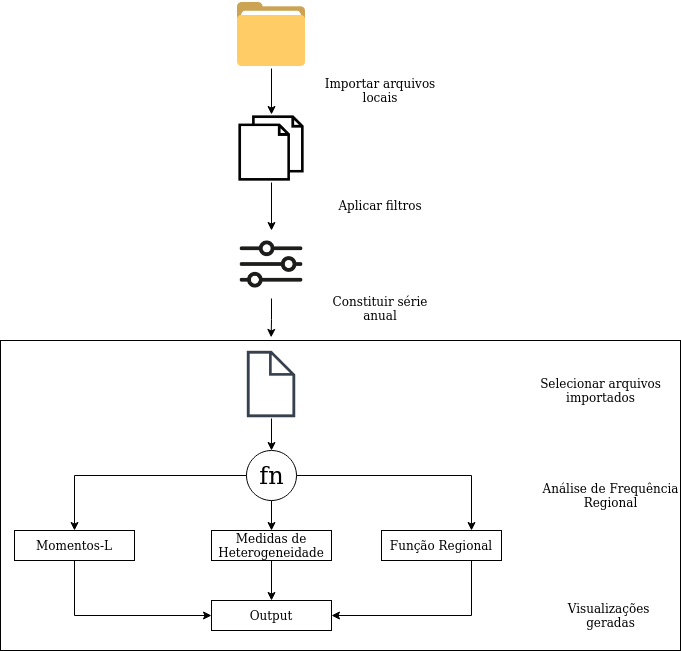
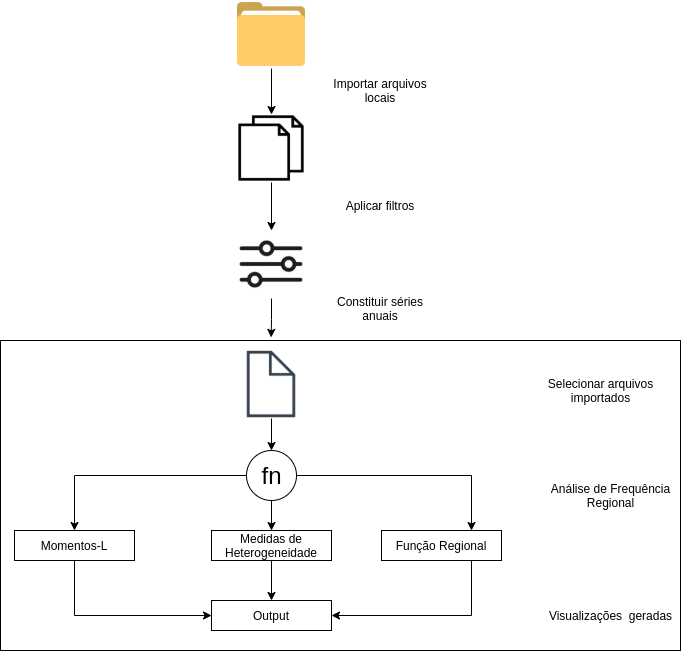
writing worker relateds and introduction

diff --git a/paperWSCAD2021/main.tex b/paperWSCAD2021/main.tex
@@ -29,6 +29,7 @@
 \usepackage[T1]{fontenc}
 \usepackage{xspace}
 \usepackage{url}
+\usepackage{enumerate}
 
 \usepackage{xargs}
 \usepackage[colorinlistoftodos,prependcaption,textsize=tiny]{todonotes}
@@ -70,21 +71,46 @@
 
 \section{Introdução}
 
-A decisão economica sobre diferentes frentes por vezes passa pela análise de uma grande massa de dados. R é uma ferramenta que oferece grande potencial para manipulação e visualização de massas de dados. Shiny é um pacote para R que permite que servidores disponibilizem recursos para visualizações R.
+Métricas de controle de qualidade e resultados ajudam a avaliar a confiança das previsões em estudos individuais.R é uma ferramenta livre que oferece grande potencial para manipulação e visualização de massas de dados. Shiny é um pacote para R que permite que servidores disponibilizem recursos para visualizações R. Existem outras, X e Y, que oferecem soluções semelhantes, porém, em um contexto proprietário.  Com arquitetura igualmente livre, a placa Raspberry Pi - um minicomputador que tem todo o seu hardware integrado em uma placa única, inicialmente desenvolvida em 2006 por Eben Upton e equipe (Werner 2015) - possui um custo baixo de aquisição, tamanho pequeno e baixo consumo energético. Ela é versátil, podendo ser usado para os mais diferentes tipos de aplicações, inclusive provendo serviços nativos a servidores (dados, web, serviços). Um dado interessante é que o Raspberry Pi 3 foi selecionado como o SBC (single board computer) mais popular, entre 81 placas Linux / Android, numa pesquisa abrangente conduzida pela Linux Foundation em 2016 (Brown, 2016.
 
-R é uma ferramenta livre, existem outras, X e Y, que oferecem soluções semelhantes, porém, em um contexto proprietário. Este trabalho tem por objetivo avaliar o poder de escalabilidade de servidores web R, utilizando shiny.
+Equipamentos servidores, independentemente das tarefas a que são submetidos, demandam consumo energético constante e ininterrupto e, por óbvio, é interessante buscar soluções que reduzam o uso de energia, provendo assim economia ou ganho financeiro.
 
-O caso de estudo encaminhado considera o serviço WebShyda. São consideradas duas plataformas de suporte: um servidor com arquitetura convencional e um dispositivo de baixa capacidade (small board). O objetivo deste estudo é identificar componentes do sw, atualmente construído de forma monolítica, em microserviços. 
+Nesse interim, as métricas de desempenho, que são valores brutos que provem a base para alguma forma de pesquisa ou estudo e podem ser compostos por valores de diversas categorias e formato, tem a finalidade de quantificar objetivamente as funções de coletas de dados de avaliação e desempenho. Objetivamente, este trabalho busca avaliar e mensurar a o poder de escalabilidade de servidores web R, utilizando Shiny.
 
-\section{Trabalhos Relacionados} \label{sec:TrabalhosRelacionados}
+O caso de estudo encaminhado considera o serviço WebSYHDA. Um serviço desenvolvido com a finalidade de processamento complexo de séries hidrológicas. São consideradas duas plataformas de suporte: um servidor com arquitetura convencional e um dispositivo de baixa capacidade (small board). O objetivo deste estudo é identificar componentes do software, atualmente construído de forma monolítica, na forma de microserviços.
+
+\section{Trabalhos Relacionados  - reescrito por Giovani rascunho para avaliação} \label{sec:TrabalhosRelacionados}
+
+O estudo da escalabilidade de servidores no atendimento aos usuários é constante na literatura [citações
+genéricas são bem vindas]. Nos últimos anos, esse estudo passou a incluir a análise das questões
+energéticas [outras refs]. Neste contexto, o uso de dispositivos de borda, os chamados \emph{small
+boards}, em substituição a servidores convencionais tem se apresentado como alternativa. No estudo de caso documento neste artigo, é considerada uma aplicação desenvolvida sob um servidor R.
+
+Inicialmente, com um propósito similar ao WebSYHDA, no que tange ao uso de R e a estrutura Shiny, cita-se o  trabalho de Ekiz et al (2020) que utiliza os referidos recursos para criar uma aplicação web denominada Cluster Identity PRedictor (CIPR), disponível em GitHub, que fornece uma interface gráfica de usuário para pontuar perfis de expressão gênica de clusters de células.
+Em outro contexto, a finalidade de criar um servidor de arquivos utilizando um Raspberry PI, para guardar os dados e poder compartilhar na rede, fora objeto de estudo de Bruschi (2016). Este concluiu que o dispositivo pode ser utilizado com o propósito em questão, com economia de custos sem, contudo, deixar de ser viável para esta aplicação, observando-se apenas algumas variações de desempenho dependendo do tipo de armazenamento.
+
+O Raspberry Pi também foi utilizado, conforme Azevedo (2019), para propor a viabilidade de sua utilização em hospedar um honeypot, mostrando que sua efetividade irá depender da eficiência do software utilizado e também do tamanho e complexidade da rede em que ficará esse dispositivo, para dar efetividade ao objetivo proposto. 
+
+Ainda\ups{Não entende esse "ainda".}, Rafael et al (2013), outrora já mostrara que o uso de um computador de baixo custo - o Raspberry-Pi, pode ser usado de forma segura como um servidor web,  propiciando economia de energia.
+
+[Oliveira and Ataides 2017] propôs avaliar a substituição do hardware convencional por um hardware de baixo consumo que respeite o Service-Level-Agreement (SLA) e reduza o consumo de energia dos data centers, assim tornando viável o uso de uma em uma nuvem computacional. A proposta incluiu a implementação de um Raspbarry PI B+ como um nodo computacional de baixo consumo energético. Para tal, adaptações na arquitetura e no hipervisor  se fizeram necessárias.
+
+Para a elaboração deste compendio, os testes e medições foram realizados executando o bechmark YCSB Yahoo! Cloud Serving Benchmark, um sistema de código aberto e conjunto de programas para avaliar as capacidades de recuperação e manutenção de programas de computador. É frequentemente usado para comparar o desempenho relativo dos sistemas de gerenciamento de banco de dados NoSQL e nuvens. Com a análise das vazões das operações realizadas, pode-se perceber um gargalo de processamento quando comparado ao nó de um dispositivo de baixo consumo. Contudo, a implementação do Raspberry PI B+ em uma nuvem, ainda sim é vantajosa.
+
+Em Kaup et al. (2014) é evidenciada segue a mesma preocupação com o alto consumo de energia proveniente de ambientes vindo das clouds. Ainda assim, até 2012, 10,82\% da população contribui com 0,03\% da energia consumida mundialmente, com o uso de 770 milhoes de gateways e routers domésticos. Levando em consideração que os maiores consumos ocorrem por parte de maquinas com um hardware mais poderoso, ainda sim não se pode ignorar o consumo vindo por parte de tais dispositivos, pois 43\% dos mesmos se mantem ligados diariamente, ociosos em boa parte do tempo, onde poderiam vir a desempenhar funções de pré-carregamento para usuário (ou seja, armazenamento em cache, pré-busca de conteúdo, execução de serviços locais). A Raspberry PI vem sendo utilizada para inúmeras aplicações no qual fomenta o uso de tais aplicações com a visão em baixo consumo energético. Kaup et al. (2014), apresenta o PowerPi um modelo de  potência concentrando-se no consumo de energia da Raspberry PI a fim de derivar novas possíveis estratégias de consumo de energia.
+
+
+
+\section{Trabalhos Relacionados - ideia anterior} \label{sec:TrabalhosRelacionados}
 %RASCUNHOOOOOOO
 %Referencias antigas quanto ao pq usar o raspberry (green computing)
-\cite{Joao} propôs avaliar a substituição do hardware convencional por um hardware de baixo consumo que respeite o Service-Level-Agreement (SLA) e reduza o consumo de energia dos \textit{data centers}, assim tornando viável o uso de uma \textit{Small Board} em uma nuvem computacional.
+
+O estudo da escalabilidade de servidores no atendimento aos usuários é constante na literatura [citações genéricas são bem vindas]. Nos últimos anos, esse estudo passou a incluir a análise das questões energéticas [outras refs]. Neste contexto, o uso de dispositivos de borda, os chamados \emph{small boards}, em substituição a servidores convencionais tem se apresentado como alternativa. \cite{Joao}, propôs avaliar a substituição do hardware convencional por um hardware de baixo consumo que respeite o Service-Level-Agreement (SLA) e reduza o consumo de energia dos \textit{data centers}, assim tornando viável o uso de uma \textit{Small Board} em uma nuvem computacional.
 
 Com isso, implementou a Raspbarry PI B+ como um nodo computacional de baixo consumo, realizando as adaptações necessárias para compatibilidade com a arquitetura ARM, precisando escolher um \textit{hypervision} adequado para tal. A nuvem era composta por 10 computadores de arquitetura x64, sendo nove deles nodos computacionais e um nodo de controle, em meio a essa composição a Raspberry vinha à acrescer como mais um nodo computacional.
 
 
-A medição foi realizada através da execução do bechmark YCSB (\textit{Yahoo! Cloud Serving Benchmark}) que é especificamente desenvolvido para avaliar nuvens. Os resultados foram obtidos através da vazão de operações onde acabou por demonstrar um gargalo de processamento quando comparado ao nó de um baixo consumo. Porém a implementação da Rapberry PI B+ em uma nuvem, ainda sim é vantajosa, onde as características batam com as desempenhada pelo \textit{benchmark}.
+A medição foi realizada com a execução do bechmark YCSB (\textit{Yahoo! Cloud Serving Benchmark}) que é especificamente desenvolvido para avaliar nuvens. Os resultados foram obtidos através da vazão de operações onde acabou por demonstrar um gargalo de processamento quando comparado ao nó de um baixo consumo. Porém a implementação da Rapberry PI B+ em uma nuvem, ainda sim é vantajosa, onde as características batam com as desempenhada pelo \textit{benchmark}.
 
 
 Em \cite{PiConsumo} segue a mesma preocupação com o alto consumo de energia vindo das \textit{clouds}, porém até 2012, 10,82\% da população mantem assinatura de banda larga até, mantendo 770 milhões de gateways domeśtico ao redor do mundo. Tendo um consumo de 10W cada, gerando um consumo unitário de 6,7TWh ao ano o que soma em 0,03\% na energia consumida mundialmente. Levando em consideração que os maiores consumo ocorrem por parte de maquinas com um \textit{hardware} mais poderoso, ainda sim não se pode ignorar o consumo vindo por parte de tais dispositivos, pois 43\% dos mesmo se mantem ligados diariamente e muitas vezes ociosos, durante esse período de ociosidade, poderia vir desempenhar funções de pré-carregamento para usuario (ou seja, armazenamento em cache, pré-busca de conteúdo, execução de serviços locais).
@@ -92,7 +118,7 @@ Em \cite{PiConsumo} segue a mesma preocupação com o alto consumo de energia vi
 
 A Raspberry PI vem sendo utilizada para inúmeras aplicações no qual fomenta o uso de tais aplicações com a visão em baixo consumo energético, com isso \cite{PiConsumo} apresenta o PowerPi um modelo de  potência concentrando-se no consumo de energia da Raspberry PI a fim de derivar novas possíveis estratégias de consumo de energia.
 
-\section{WebSyhda}\label{sec:websyhda}
+\section{WebSYHDA}\label{sec:websyhda}
 
 %RASCUNHOOOOOOOOO
 Engenharia e gestão de recursos hídricos mantém uma grande dependência de séries hidrológicas. No entanto, o processamento destas séries é complexo, geralmente dependente de métodos numéricos para resolução, e é suscetível a erros quando feito de forma manualmente. Esses aspectos frequentemente dificultam a elaboração de projetos que depende da análise e estudo de séries hidrológicas. Com isso O Grupo de Pesquisa em Hidrologia e Modelagem Hidrológica em Bacias Hidrográficas/CNPq da UFPEL, propôs, desenvolveu e mantem O \emph{System of Hydrological Data Acquisition and Analysis} ou SYHDA \cite{syhda}.
@@ -101,13 +127,14 @@ A plataforma recentemente passou por uma migração para o modelo Web, onde enco
 
 O WebSYHDA permite a importação de dados do Hidroweb/ANA\footnote{ANA: \url{https://dadosabertos.ana.gov.br}}, para dados de vazão, chuva e nível. Estes dados são reconhecidos pela plataforma de forma automática. Outras fontes de dados estão sendo implementadas na plataforma, como BDMEP/INMET\footnote{INMET: \url{https://portal.inmet.gov.br}} e dados oriundos de estações de monitoramento diversas com formatos definidos pelo usuário.
 
-A plataforma em sua versão atual, conta com diversas funcionalidades, bem como: estatísticas descritivas, representações gráficas, testes não paramétricos, consistência de dados de chuva, análise de frequência local e análise de frequência regional. Os resultados serão estruturados de forma dinâmica, assim permitindo o manuseio pelo usuário final, permitindo ainda a possibilidade de exportação e salvar o estado atual do projeto. 
+% adicionei uma parte (joão)
+A plataforma em sua versão atual, conta com diversas funcionalidades, bem como: constituição de séries históricas em diferentes intervalos de tempo, estatísticas descritivas, representações gráficas, testes não paramétricos, consistência de dados de chuva, análise de frequência local e análise de frequência regional. Os resultados serão estruturados de forma dinâmica, assim permitindo o manuseio pelo usuário final, permitindo ainda a possibilidade de exportação e salvar o estado atual do projeto. 
 
 \section{Metodologia} \label{sec:metodologia}
 
-Visto que a demanda de serviços \textit{web} ocupa a maior parte das aplicações na nuvem, maiores são os esforços para otimização das aplicações para um menor consumo de requisitos e rede. 
+Visto que a demanda de serviços \textit{web} ocupa a maior parte das aplicações na nuvem, maiores são os esforços para otimização das aplicações para um menor consumo de requisitos e rede, mantendo, no entanto, níveis de desempenho aceitáveis aos usuários. 
 
-Dito isso, para este trabalho fizemos uso de uma aplicação real, o WebSyhda como mecanismo de teste, que permitiu equiparar \emph{hardware} de arquitetura x64 com a \emph{smallboard} selecionado, Raspberry PI 3, dada a eficiência apresentada pelo dispositivo em trabalhos anteriores e a capacidade de atender cenários de demanda \emph{web} \cite{silva2019estudo}.
+Baseada na premissa supracitada, para este trabalho fizemos uso de uma aplicação real, o WebSYHDA como mecanismo de teste, que permitiu equiparar \emph{hardware} de arquitetura x64 com a \emph{smallboard} selecionado, Raspberry PI 3, dada a eficiência apresentada pelo dispositivo em trabalhos anteriores e a capacidade de atender cenários de demanda \emph{web} \cite{silva2019estudo}.
 
 Para simulação de carga fizemos uso da ferramenta \emph{Shinycannon}, a qual nos permite simular usuários simultaneos realizando ações no aplicativo. Assim atendendo nossas exigências em quantativar numero de usuários suportados e latência do aplicativo.
 
@@ -120,6 +147,10 @@ R é uma linguagem e ambiente com foco em computação estatística e gráficos.
 
 Com isso vale ressaltar que R é uma aplicação de thread único, o que significa que um aplicativo não pode atender a dois usuários diferentes precisamente ao mesmo tempo, Figura ~\ref{singleThreads}. Em muitas aplicações isso não é um problema, porque a maioria dos cálculos leva apenas dezenas ou centenas de milissegundos. Como resultado, um único processo R geralmente pode atender de 5 a 30 solicitações por segundo \cite{ShinyappsEscalabilidade}. 
 
+Entre tanto, para uma aplicação como o WebSYHDA e outras, onde a simultaneidade entre usuários podem ocorrer de forma frequente, acaba por resultar em respostas demoradas para os demais usuário, dado a dependência do tempo de processamento para o cálculo que estiver em execução. A fim de ganho em desempenho para compensar o número de usuários, o escalonamento de hardware pode ser feito, porem o emprego de \emph{hardware} para suporte pode ser empregada de forma pouco eficiente dado a configuração de balanceamento permitida. %De mesma maneira ocorre se houver o uso insuficiente, onde o custo por hardware ocioso deixa a desejar.
+
+%Resaltar casos onde nao atenda
+
 \begin{figure}[htbp]
   \centering 
   \includegraphics[scale=.4]{figures/single_threads.jpg}
@@ -129,15 +160,15 @@ Com isso vale ressaltar que R é uma aplicação de thread único, o que signifi
 
 \subsection{Shiny} \label{sec:Shiny}
 
-Para o desenvolvimento de aplicativos \emph{web} fazendo uso da linguagem R, a Rstudio mantém o pacote \emph{Shiny}\footnote{Shiny: \url{https://shiny.rstudio.com}}. Um pacote R que facilita a construção de aplicativos interativos. Permitindo hospedar aplicativos independentes em uma página da web ou incorporá-los em documentos R Markdown ou construir painéis. 
+Para o desenvolvimento de aplicativos \emph{web} fazendo uso da linguagem R, a Rstudio mantém o pacote \emph{Shiny}\footnote{Shiny: \url{https://shiny.rstudio.com}}. Este pacote R que facilita a construção de aplicativos interativos. Permitindo hospedar aplicativos independentes em uma página da web ou incorporá-los em documentos R Markdown ou construir painéis. 
 
-Assim, torna-se possivel apresentar gráficos dinamicos e iterativos por meio de pacotes como, ggvis\footnote{ggvis: \url{https://ggvis.rstudio.com/}}, ggiraph\footnote{ggiraph: \url{https://davidgohel.github.io/ggiraph/}}, plotly\footnote{plotly: \url{https://plotly.com/}} entre outros mantidos pela RStudio ou pela comunidade. Permitindo ainda, estender os aplicativos \emph{Shiny} com temas CSS (\emph{Cascading Style Sheets}), \emph{htmlwidgets} e ações JS (\emph{JavaScript}).
+Assim, torna-se possivel apresentar gráficos dinâmicos e interativos por meio de pacotes como, ggvis\footnote{ggvis: \url{https://ggvis.rstudio.com/}}, ggiraph\footnote{ggiraph: \url{https://davidgohel.github.io/ggiraph}}, plotly\footnote{plotly: \url{https://plotly.com/}} entre outros mantidos pela RStudio ou pela comunidade. Permitindo ainda, estender os aplicativos \emph{Shiny} com temas CSS (\emph{Cascading Style Sheets}), \emph{htmlwidgets} e ações JS (\emph{JavaScript}).
 
 \subsection{Shinycannon} \label{sec:Shinycannon}
 
-\textit{Shinycannon}\footnote{Shinycannon: \url{https://github.com/rstudio/shinycannon}} é uma ferramenta de linha de comando que possibilita testes de carga em aplicativos R. De forma a permitir aos desenvolvedores analisarem a escalabilidade de seu aplicativo simulando de um a n usuários simultaneos.
+\textit{Shinycannon}\footnote{Shinycannon: \url{https://github.com/rstudio/shinycannon}} é uma ferramenta de linha de comando que possibilita testes de carga em aplicativos R. Assim, permitindo aos desenvolvedores analisarem a escalabilidade de seu aplicativo simulando de um a n usuários simultaneos.
 
-A Ferramenta acompanha o pacote \textit{shinyloadtest}\footnote{Shinyloadtest: \url{https://rstudio.github.io/shinyloadtest/}}, mantido pela própria Rstudio. O pacote é responsavel por gerar uma gravação de uma sessão de usuário, essas sessões podem ser criadas pensando no uso tipico do aplicativo desenvolvido\cite{shinyloadtest}. A sessão é criada de forma manual, após a iniciação do pacote o tester executa a interação com o aplicativo de forma natual, assim como um usuário comum. Ao terminar seu uso basta fechar a aplicação para que o pacote encerre a gravação da sessão.
+A ferramenta acompanha o pacote \textit{shinyloadtest}\footnote{Shinyloadtest: \url{https://rstudio.github.io/shinyloadtest}}, mantido pela própria Rstudio. O pacote é responsavel por gerar uma gravação de uma sessão de usuário, essas sessões podem ser criadas pensando no uso tipico do aplicativo desenvolvido\cite{shinyloadtest}. A sessão é criada de forma manual, após a inicialização do pacote o tester executa a interação com o aplicativo de forma natual, assim como um usuário comum. Ao terminar seu uso basta fechar a aplicação para que o pacote encerre a gravação da sessão.
 
 Com isso, por sua vez, a \textit{Shinycannon} permite a criação de trabalhadores, que são os usuários simulados, podendo criar tantos quantos necessarios para execução dos testes. Assim para execução dos teste devemos definir o numero de trablhadores e o tempo total da sessão que será executada pelos mesmos. 
 
@@ -148,58 +179,53 @@ Com a popularização do uso de serviços providos pela computação em nuvem, o
 
 Assim, o dispositivo de teste escolhido foi a \emph{smallboard} Raspberry PI3, dada sua arquitetura ARM aberta, comunidade participativa em inumeros projetos alem de sua alta disponbilidade no mercado. As especificacoes do device podem ser observadas na Tabela ~\ref{tab:especificacao}.
 
-\begin{table}[!h]
-    \centering
-    \caption{Especifícação de \textit{hardware} do dispositivo, segundo o fabricante~\cite{fundation2015raspberry}.}
-    \label{tab:especificacao}
-    \begin{tabular}{c|c}
-    \hline
-    \textbf{Espesificações}                                           & \multicolumn{1}{l}{\textbf{Raspeberry PI 3}}                             \\ \hline
-    Processador                                                       & \begin{tabular}[c]{@{}c@{}}BCM2837 64Bit\\ Quad Core 1.2GHz\end{tabular} \\ \hline
-    Arquitetura                                                       & ARMv8                                                                    \\ \hline
-    RAM                                                               & 1GB SDRAM 400MHz                                                         \\ \hline
-    Armazenamento                                                     & Micro SD                                                                 \\ \hline
-    USB 2.0                                                           & 4 Portas USB                                                             \\ \hline
-    \begin{tabular}[c]{@{}c@{}}Máxima corrente/\\ Tensão\end{tabular} & \begin{tabular}[c]{@{}c@{}}2,4A/\\ 5V\end{tabular}                       \\ \hline
-    GPIO                                                              & 40 Pins                                                                  \\ \hline
-    \end{tabular}
-    \end{table}
+\begin{table}[h]
+\centering
+\caption{TESTE}
+\begin{tabular}{l|c|c}
+\hline
+\multicolumn{1}{c|}{\textbf{Especifícação}}            & \textbf{Server x64} & \textbf{Raspberry PI3}                                                   \\ \hline
+\textbf{Processador}                                   & XXX                 & \begin{tabular}[c]{@{}c@{}}BCM2837 64bit\\ Quad Core 1.2GHz\end{tabular} \\ \hline
+\textbf{Arquitetura}   & XXX & ARMv8             \\ \hline
+\textbf{RAM}           & XXX & 1 GB SDRAM 400MHz \\ \hline
+\textbf{Armazenamento} & XXX & Micro SD          \\ \hline
+\multicolumn{1}{c|}{\textbf{Máxima corrente / Tensão}} & XXX                 & 2.4A/5V                                                                  \\ \hline
+\end{tabular}
+\label{tab:especificacao}
+\end{table}
     
 Para comparativo de desempenho, utilizou-se um dispositivo de arquitetura x64.
-O \textit{server} selecionado para tal comparativo foi o HP ----------------- \cite{}, suas especificações se encontrão presente na Tabela \ref{tab:especificacaoserver}, informações obtidas através do comando \textit{dmidecode}, o qual apresenta todas informações disponíveis sobre o dispositivo, possibilitando uma pesquisa mais especifica dentro dele atribuindo ao comando \textit{dmidecode --type} concatenado com uma chave da tabela de representação do comando, como a chave quatro, nos demonstrará todas especificações do processador e assim por diante.
-
-\begin{table}[!h]
-    \centering
-    \caption{Especifícação de \textit{hardware} do \textit{server}.}
-    \label{tab:especificacaoDesktop}
-    \begin{tabular}{cc}
-    \hline
-    \multicolumn{1}{c|}{\textbf{Espesificações}}                                           & \textit{\textbf{Desktop}}                                                                   \\ \hline
-    \multicolumn{1}{c|}{Processador}                                                       & \begin{tabular}[c]{@{}c@{}}8x Intel(R) Core(TM) i7-3370\\ CPU @ 3.40GHz 64Bits\end{tabular} \\ \hline
-    \multicolumn{1}{c|}{Arquitetura}                                                       & x64                                                                                     \\ \hline
-    \multicolumn{1}{c|}{RAM}                                                               & XGB X.xxxMHz                                                                                \\ \hline
-    \multicolumn{1}{c|}{Armazenamento}                                                     & HD                                                                                         \\ \hline
-    \multicolumn{1}{c|}{USB 2.0}                                                           & 4 Portas USB                                                                                \\ \hline
-    USB 3.0                                                                                & 2 Portas USB                                                                                \\ \hline
-    \multicolumn{1}{c|}{\begin{tabular}[c]{@{}c@{}}Máxima corrente/\\ Tensão\end{tabular}} & ---/---                                                                               \\ \hline
-    \end{tabular}
-    \end{table}
+O \textit{server} selecionado para tal comparativo, tem suas especificações presente na Tabela ~\ref{tab:especificacao}, informações obtidas pelo comando \textit{dmidecode}, o qual apresenta todas informações disponíveis sobre o dispositivo, possibilitando uma pesquisa mais especifica dentro dele atribuindo ao comando \textit{dmidecode --type} concatenado com uma chave da tabela de representação do comando, como a chave quatro, nos demonstrará todas especificações do processador e assim por diante.
 
 \subsection{Metodologia dos Testes}\label{sec:MetodologiaDosTestes}
 A fim de testar o aplicativo no seu estágio atual de desenvolvimento e também encontrar cargas próximas ao limite da Raspberry PI, consideramos a documentação como base, onde a mesma demonstra qual seria aproximadamente o limite de tempo de resposta do aplicativo dada a quantidade de usuários \cite{documentShiny}.
 
 
-%Em um primeiro momento, analisamos o uso mais comum do sw, ou seja, seu uso diário por engenheiros hídricos, a Figura ~\ref{usoWebSyhda} demonstra o conjunto de ações tomada dentro do aplicativo. Com isso utilizamos o pacote \emph{shinyloadtest}, assim permitindo a gravação deste conjunto de passos. 
-Em um primeiro momento, buscou-se um teste que fosse característico de um fluxo típico de um usuário, fazendo uso de várias técnicas empregadas em diversas análises hidrológicas, porém com foco em tarefas que requerem maior processamento. Optou-se por utilizar o módulo de Análise de Frequência Regional para o teste, visto que o mesmo atende ao critério de uso anterior, assim como a exigência de múltiplos arquivos para computar os resultados. A Figura ~\ref{usoWebSyhda} demonstra o conjunto de ações tomada dentro do aplicativo. Com isso utilizamos o pacote \emph{shinyloadtest}, assim permitindo a gravação deste conjunto de passos. 
+%Em um primeiro momento, analisamos o uso mais comum do sw, ou seja, seu uso diário por engenheiros hídricos, a Figura ~\ref{usoWebSYHDA} demonstra o conjunto de ações tomada dentro do aplicativo. Com isso utilizamos o pacote \emph{shinyloadtest}, assim permitindo a gravação deste conjunto de passos. 
+Em um primeiro momento, buscou-se um teste que fosse característico de um fluxo típico de um usuário, fazendo uso de várias técnicas empregadas em diversas análises hidrológicas, porém com foco em tarefas que requerem maior processamento. Optou-se por utilizar o módulo de Análise de Frequência Regional para o teste, visto que o mesmo atende ao critério de uso anterior, assim como a exigência de múltiplos arquivos para computar os resultados. A Figura ~\ref{usoWebSYHDA} ilustra o conjunto de ações tomada para execução do teste dentro do aplicativo, sendo estas:
+
+%A Figura ~\ref{usoWebSYHDA} ilustra o conjunto de ações tomada dentro do aplicativo. Com isso utilizamos o pacote \emph{shinyloadtest}, assim permitindo a gravação deste conjunto de passos. 
+
+% descrição dos passos da Figura 2 (joão)
+\begin{enumerate}[i.]
+  \item Importar arquivos locais: importar 10 arquivos do Hidroweb, contendo dados de vazão.
+  \item Aplicar filtros: aplicar o limiar de falhas de 31 dias para filtrar as séries.
+  \item Constituir séries anuais: selecionar o período anual para transformar as séries diárias em anuais.
+  \item Selecionar arquivos importados: no módulo de Análise de Frequência Regional, é possível selecionar, dentre os arquivos importados, quais serão utilizados na análise. Neste caso, todos foram selecionados.
+  \item Análise de frequência regional: executar a análise. A partir dos dados, são computados os Momentos-L de cada série anual, as medidas de heterogeneidade da região e a sua função regional.
+  \item Vizualizações geradas: tabelas com os resultados são geradas, assim como o gráfico da função regional.
+\end{enumerate}
+
+
 
 \begin{figure}[htbp]
   \centering 
-  \includegraphics[scale=.4]{paperWSCAD2021/figures/useWebSyhdaDrawio.png}
-  \caption{Exemplo dos passos seguido pelo usuário}
-  \label{usoWebSyhda}
+  \includegraphics[scale=.4]{paperWSCAD2021/figures/useWebSYHDADrawio.png}
+  \caption{Exemplo dos passos seguidos pelo usuário}
+  \label{usoWebSYHDA}
 \end{figure}
 
-Inicialmente partimos com um conjunto de execuções teste afim de entender o simulador e as possibilidades fornecidas por ele. Seguindo as indicações da documentação e observando o tempo comum de trabalho de um usuário do \emph{WebSyhda}, concluímos que %mudar isso
+Inicialmente partimos com um conjunto de execuções teste afim de entender o simulador e as possibilidades fornecidas por ele. Seguindo as indicações da documentação e observando o tempo comum de trabalho de um usuário do \emph{WebSYHDA}, concluímos que %mudar isso
 dois minutos representa mais de uma execução do conjunto de passos propostos, o que demonstra uma maior realidade de uso do aplicativo. Assim sendo, utilizamos dois minutos como limite de tempo de execução da ferramenta para nossa coleta.
 
 
@@ -210,22 +236,22 @@ De forma semelhante, realizamos o aumento da carga parcialmente iniciando em um 
 
 \begin{table}[htbp]
 \centering
-\label{tab:workers}
 \caption{Número de trabalhadores e tempo de simulação utilizados nos testes}
 \begin{tabular}{c|c|cc}
 \hline
 \multicolumn{2}{c|}{\textbf{Servidor HP}} & \multicolumn{2}{c}{\textbf{Raspberry PI 3}}             \\ \hline
 Trabalhadores     & Tempo                 & \multicolumn{1}{c|}{Trabalhadores} & Tempo              \\ \hline
 1                 & \multirow{3}{*}{2}    & \multicolumn{1}{c|}{1}             & \multirow{3}{*}{2} \\ \cline{1-1} \cline{3-3}
-10                &                       & \multicolumn{1}{c|}{10}            &                    \\ \cline{1-1} \cline{3-3}
-20                &                       & \multicolumn{1}{c|}{20}            &                    \\ \hline
+10                &                       & \multicolumn{1}{c|}{4}            &                    \\ \cline{1-1} \cline{3-3}
+20                &                       & \multicolumn{1}{c|}{}            &                    \\ \hline
 \end{tabular}
+\label{tab:workers}
 \end{table}
 
 \section{Resultados} \label{sec:Resultados}
 Após a análise dos resultados obtidos a partir da execução do simulador nos cenários criados, focamos nos resultados de latência máxima de \emph{websocket}, ou seja, tempo de cálculo. Ressaltamos que os resultados aqui apresentados consideram os cenários e o estágio do aplicativo no momento de proposta deste trabalho. Para uma melhor visualização dos resultados, o próprio simulador desconsidera o tempo de aquecimento dos trabalhadores. Todos os resultados, estão disponíveis para consulta no GitHub\footnote{GitHub: \url{https://github.com/SouzaGuilherme/research_PI3_R-Shiny-server}} junto aos fontes.
 
- 
+Em um primeiro momento observamos a execucao com somente um trabalhador, Figura ~\ref{}, com o intuito de averiguar seu comportamento com somente um usuario ativo. Podemos obervar que a sessao mais lenta ficou em torno de 5s. Vale resaltar que o simulador reproduz os passos 
 
 \section{Conclusão} \label{sec:conlusao}
 
